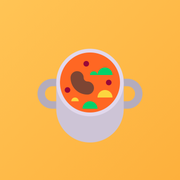
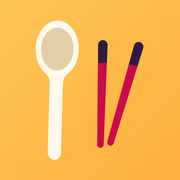
앱 아이콘을 호박색 바탕의 나란히 선 수저(숟가락·젓가락)로 변경

Changed region(s): [[0.1944, 0.1111, 0.8056, 0.8889]]

diff --git a/icons/README.md b/icons/README.md
@@ -23,4 +23,4 @@
 | katsu.svg | curry-rice |
 | pasta.svg | spaghetti |
 
-앱 아이콘(`favicon.svg`, `favicon-32.png`, `apple-touch-icon.png`)에는 같은 세트의 `pot-of-food`를 사용했습니다.
+앱 아이콘(`favicon.svg`, `favicon-32.png`, `apple-touch-icon.png`)에는 같은 세트의 `spoon`과 `chopsticks`를 나란히 세워 사용했습니다. 호박색 배경 위에서 잘 보이도록 숟가락의 회색만 크림색으로 바꾸고 두 그림을 회전·확대했습니다.
